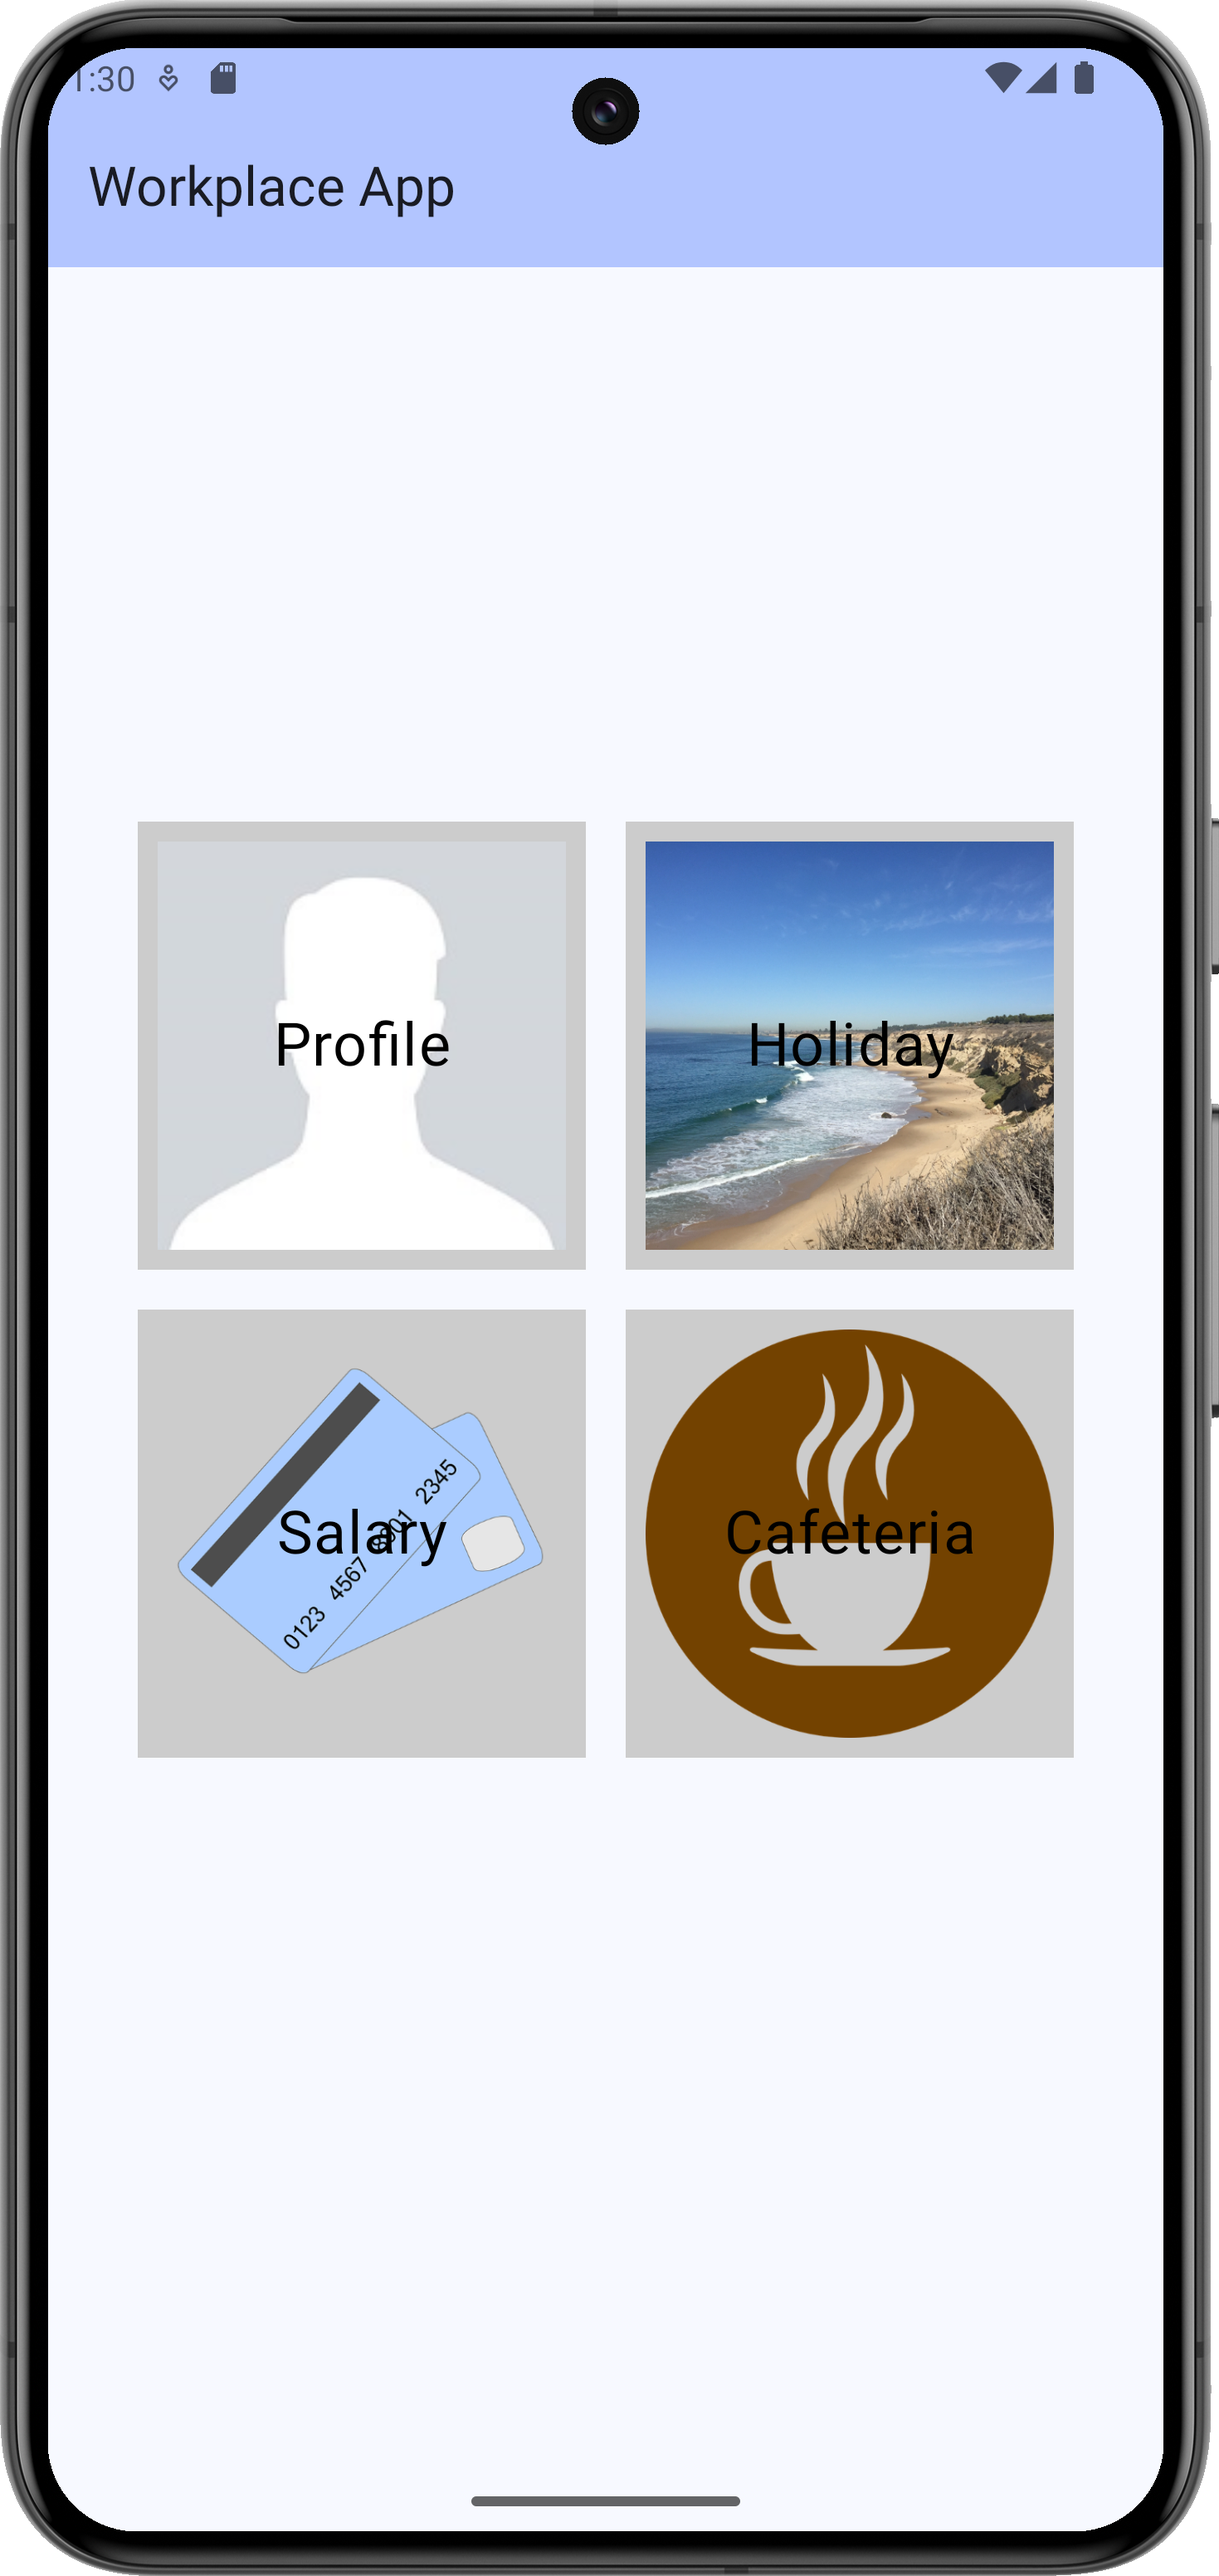
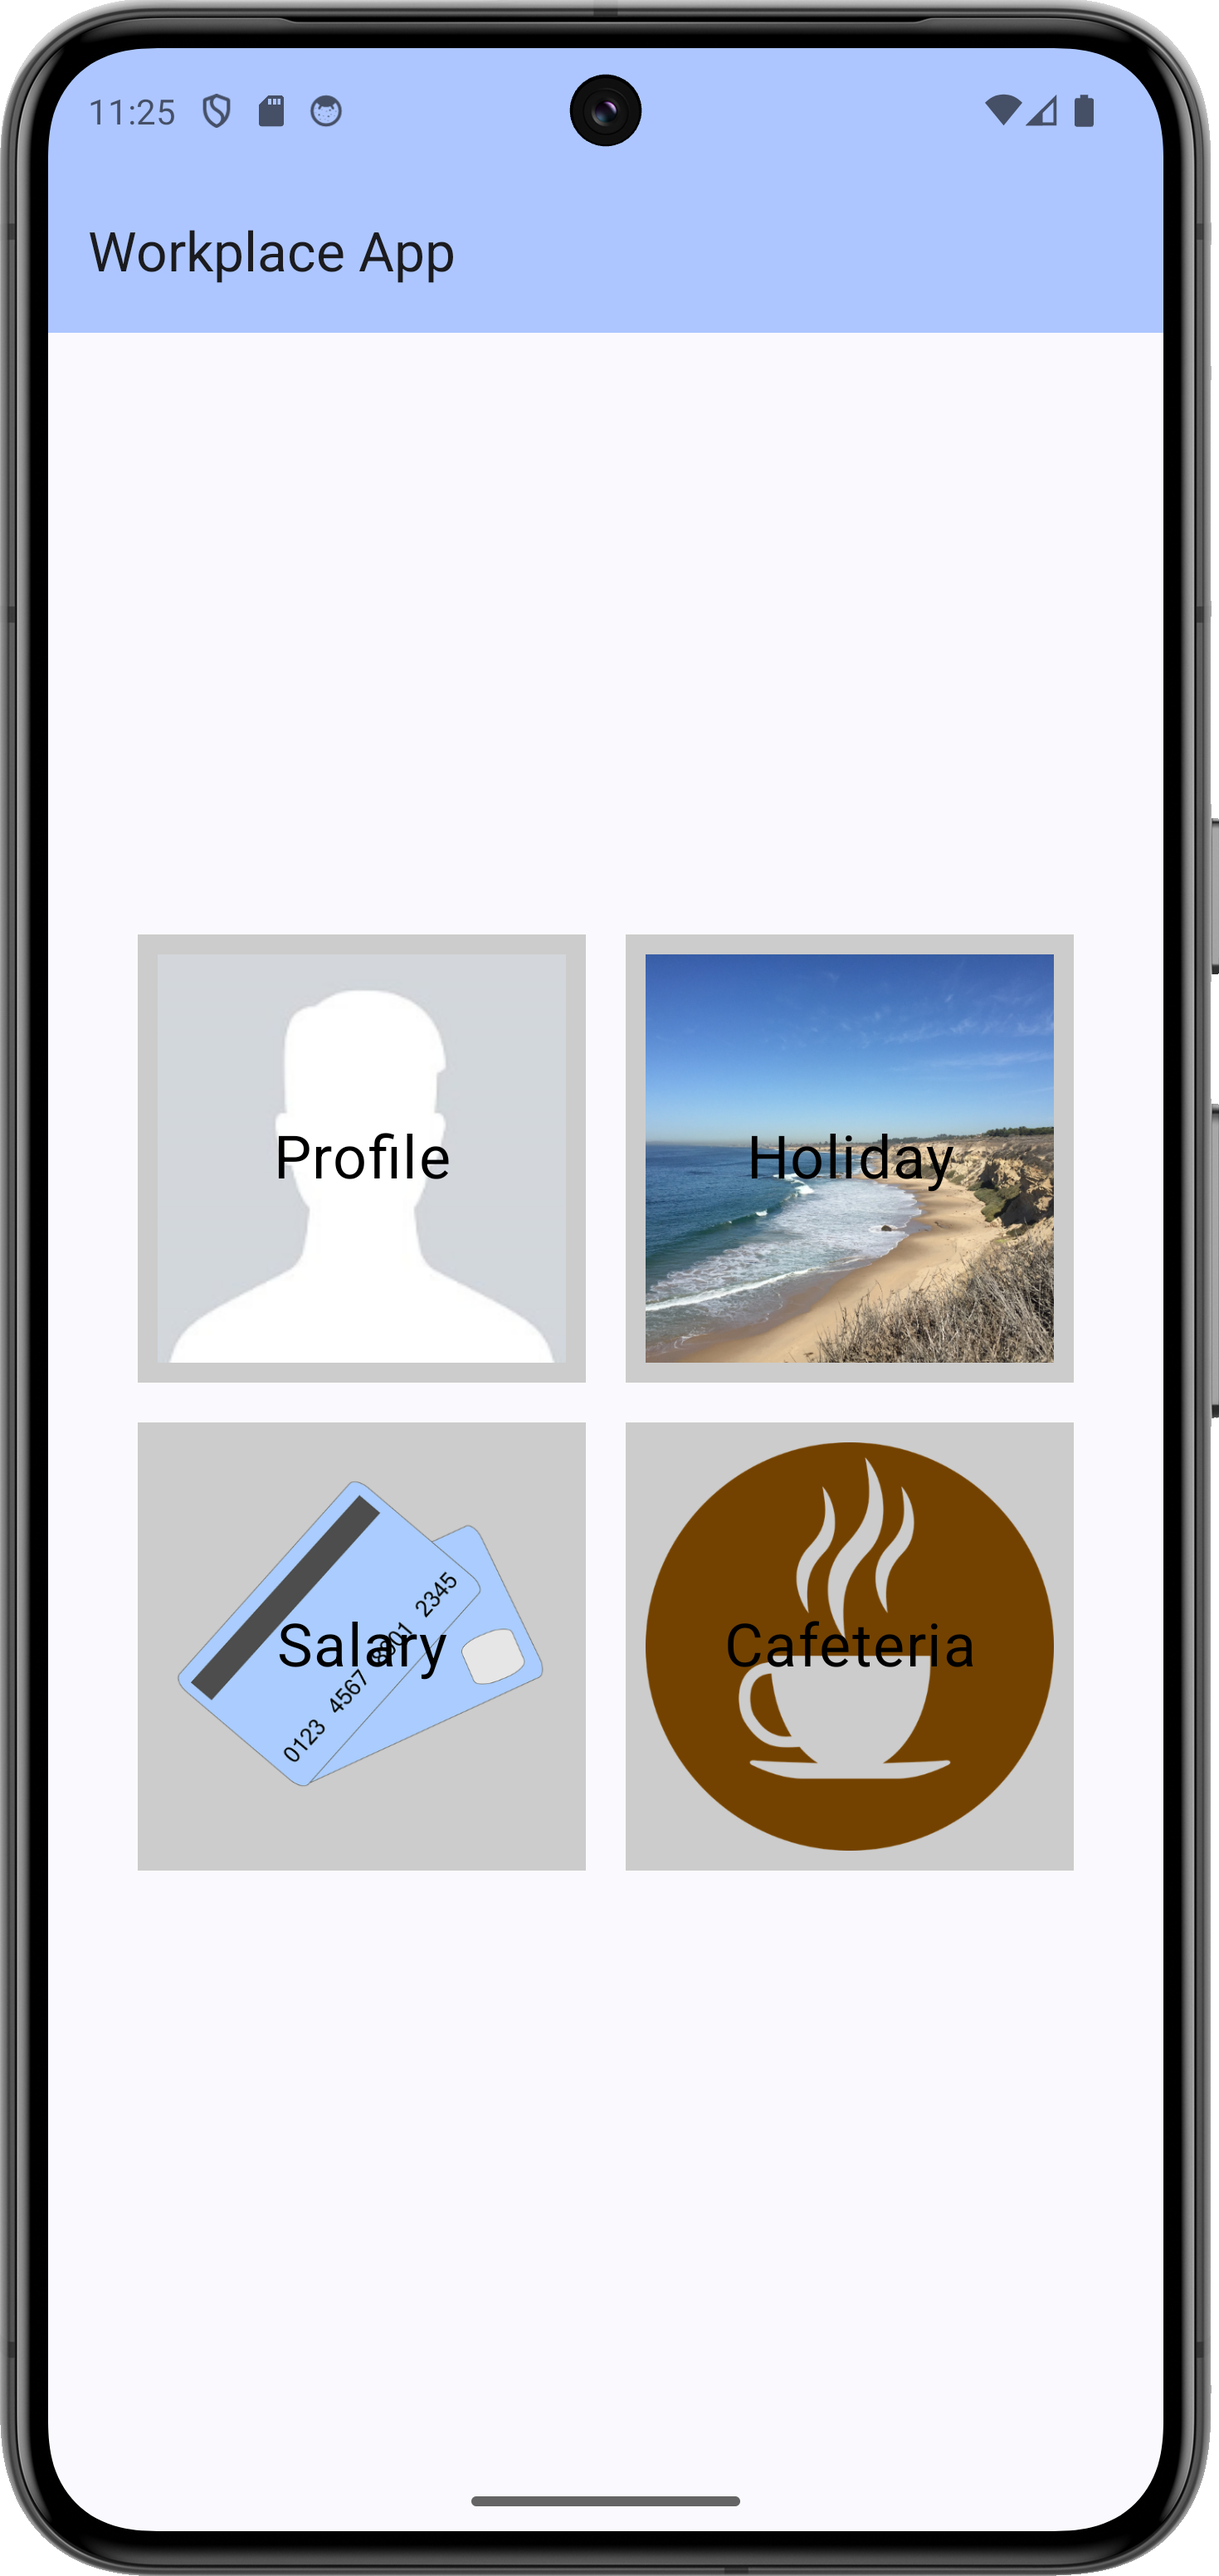
lab04 in compose v3
Cafeteria Screen crash handle

Changed region(s): [[0.0919, 0.3125, 0.8884, 0.75], [0.0306, 0.0312, 0.9803, 0.1562], [0.7965, 0.0, 0.919, 0.0625]]

diff --git a/docs/laborok/04-android-ui-fragments/index.md b/docs/laborok/04-android-ui-fragments/index.md
@@ -133,13 +133,7 @@ class MainActivity : ComponentActivity() {
         enableEdgeToEdge()
         setContent {
             WorkplaceAppTheme {
-                Scaffold(
-                    modifier = Modifier.fillMaxSize(),
-                    topBar = { TopBar() }
-                )
-                { innerPadding ->
-                    NavGraph(innerPadding)
-                }
+                NavGraph()
             }
         }
     }
@@ -183,7 +177,7 @@ class MainActivity : ComponentActivity() {
         super.onCreate(savedInstanceState)
         enableEdgeToEdge()
         setContent {
-            WorkplaceAppFinalTestTheme {
+            WorkplaceAppTheme {
                 NavGraph()
             }
         }
@@ -364,15 +358,21 @@ fun NavGraph(
     ){
         ...
         composable("profile"){
-            ProfileScreen(modifier = Modifier.padding(paddingValues))
+            ProfileScreen()
         }
 
         composable("holiday"){
-            HolidayScreen(modifier = Modifier.padding(paddingValues))
+            HolidayScreen()
+        }
+        composable("cafeteria"){
+            /*TODO*/
         }
     }
 }
 ```
+
+!!!note "Cafeteria"
+    A Cafeteria képernyőre navigációt előre beírtuk, hogy a labor végén a gombra való kattintásnál ne crasheljen az alkalmazás. Ezt a funkciót mindenki tudja otthon módosítani gyakorlás képpen.
 
 Indítsuk el az alkalmazást. Mostmár a felső két gombnak működnie kellene.
 
